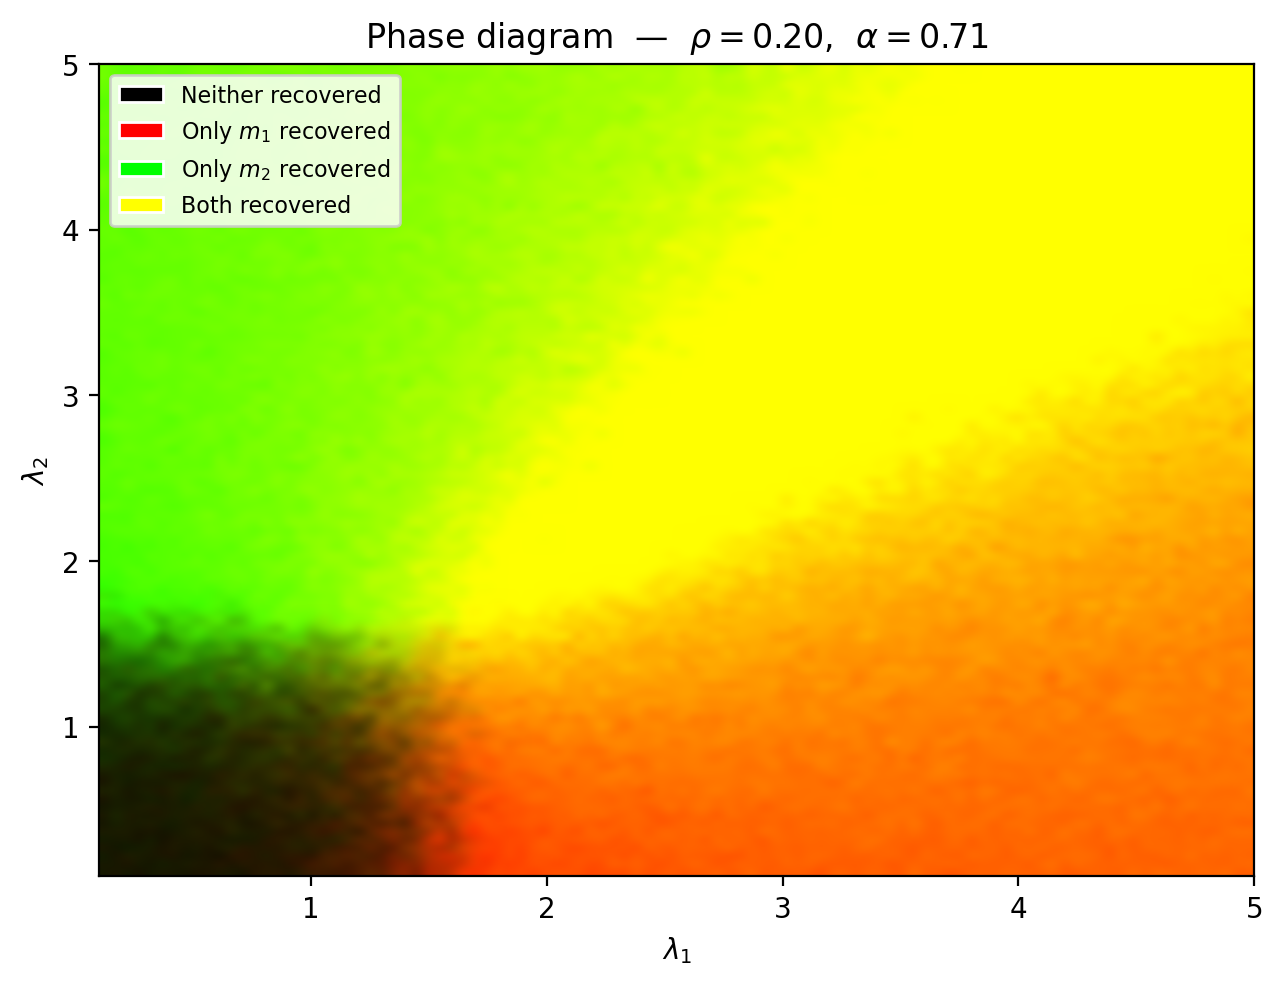
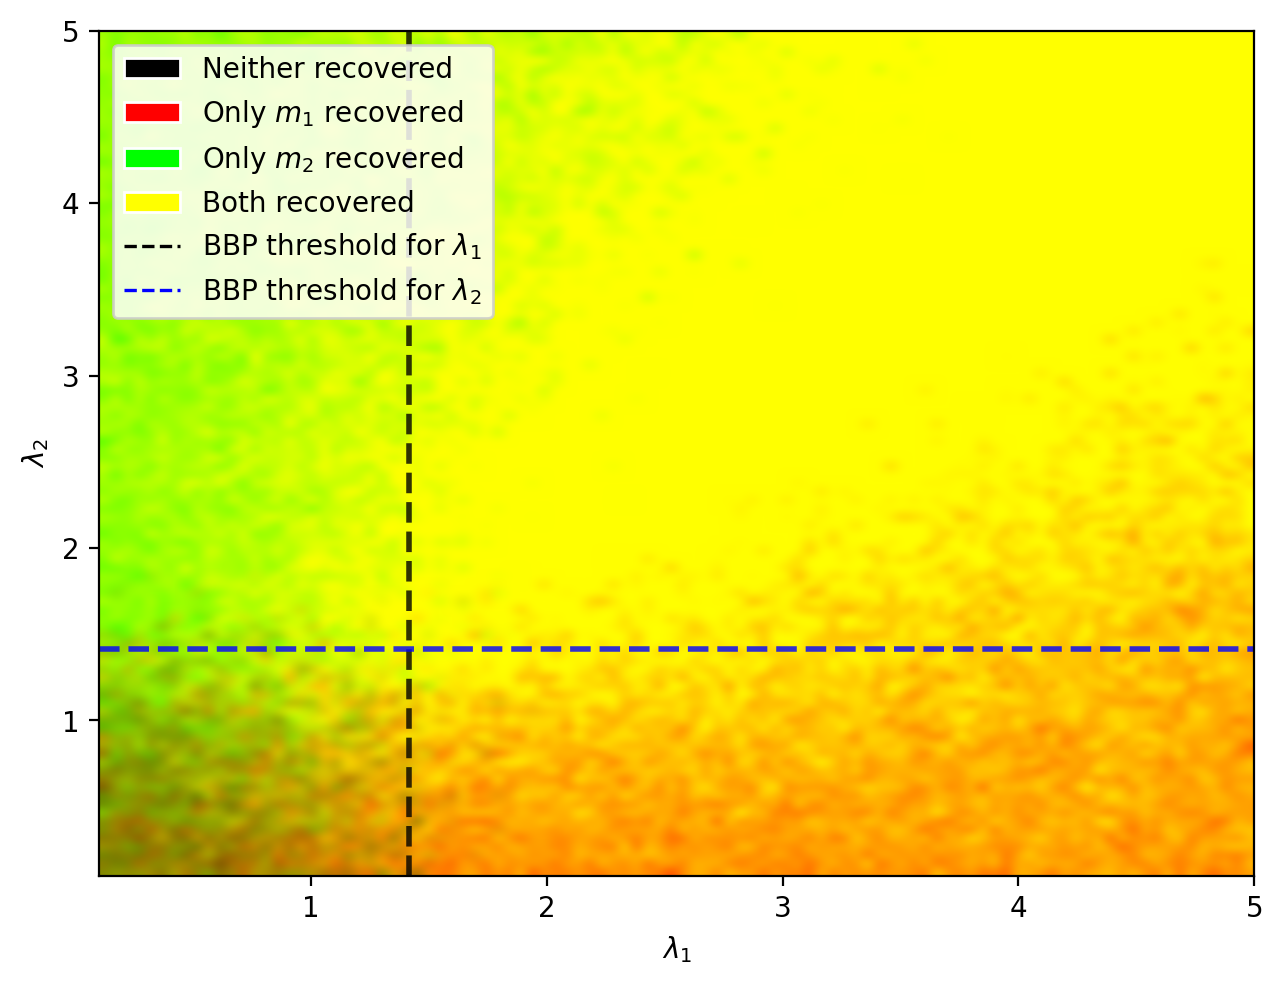
modification phase diagram pour plots

diff --git a/Spike_code/phase_diagram.py b/Spike_code/phase_diagram.py
@@ -8,14 +8,14 @@ import os
 
 importlib.reload(m)
 
-N = 50
+N = 300
 lambas1 = np.linspace(0.1, 5, 100)
 lambas2 = np.linspace(0.1, 5, 100)
 N_gradient_descent = 100
 N_average = 20
 
 alphas = [np.sqrt(0.5)]
-rhos = [0.0]
+rhos = [0.0, 0.1, 0.2, 0.3, 0.5, 1.0]
 
 # Maximum meaningful per-spike overlap (used to normalize the two
 # channels to [0, 1] before packing them into an RGB image).
@@ -56,13 +56,14 @@ for rho in rhos:
         lam1_bbp = 1.0 / alpha
         lam2_bbp = 1.0 / np.sqrt(1.0 - alpha**2)
 
-        ax.axvline(lam1_bbp, color="white", ls="--", lw=2, alpha=0.8,
-                label=rf"$\lambda_1 = 1/\alpha \approx {lam1_bbp:.2f}$")
+        ax.axvline(lam1_bbp, color="black", ls="--", lw=2, alpha=0.8,
+                label=rf"BBP threshold for $\lambda_1$")
         ax.axhline(lam2_bbp, color="blue", ls="--",  lw=2, alpha=0.8,
-                label=rf"$\lambda_2 = 1/\sqrt{{1-\alpha^2}} \approx {lam2_bbp:.2f}$")
+                label=rf"BBP threshold for $\lambda_2$")
 
-        ax.set(xlabel=r"$\lambda_1$", ylabel=r"$\lambda_2$")
-        ax.set_title(rf"Phase diagram  —  $\rho={rho:.2f}$,  $\alpha={alpha:.2f}$")
+        ax.set_xlabel(r"$\lambda_1$", fontsize=24)
+        ax.set_ylabel(r"$\lambda_2$", fontsize=24)
+        ax.tick_params(axis='both', which='major', labelsize=20)
 
         legend_patches = [
             mpatches.Patch(facecolor=(0, 0, 0), edgecolor="white",
@@ -73,16 +74,16 @@ for rho in rhos:
                            label=r"Only $m_2$ recovered"),
             mpatches.Patch(facecolor=(1, 1, 0), edgecolor="white",
                            label="Both recovered"),
-            Line2D([0], [0], color="white", ls="--", lw=1.2,
-                label=rf"BBP $\lambda_1 = 1/\alpha \approx {lam1_bbp:.2f}$"),
+            Line2D([0], [0], color="black", ls="--", lw=1.2,
+                label=rf"BBP threshold for $\lambda_1$"),
             Line2D([0], [0], color="blue", ls="--",  lw=1.2,
-           label=rf"BBP $\lambda_2 = 1/\sqrt{{1-\alpha^2}} \approx {lam2_bbp:.2f}$"),
+           label=rf"BBP threshold for $\lambda_2$"),
         ]
         ax.legend(
             handles=legend_patches,
             loc="upper left",
             framealpha=0.85,
-            fontsize=8,
+            fontsize=20,
         )
 
         fig.tight_layout()

diff --git a/Spike_code/plot_corrolated_spikes.py b/Spike_code/plot_corrolated_spikes.py
@@ -25,13 +25,13 @@ for rho in rhos:
     y1err.append(np.std(a))
     y2err.append(np.std(b))
 
-plt.errorbar(rhos, y1all, yerr=y1err, label=r'$\lambda_1$', capsize=2)
-plt.errorbar(rhos, y2all, yerr=y2err, label=r'$\lambda_2$', capsize=2)
+plt.errorbar(rhos, y1all, yerr=y1err, label='Top Eigenvalue', capsize=2)
+plt.errorbar(rhos, y2all, yerr=y2err, label='Second Eigenvalue', capsize=2)
 plt.xlabel(r'$\rho$')
 plt.xlim(0, 1)
 plt.axhline(2, color='red', linestyle='--', label=r'BBP threshold')
 plt.ylabel('Top two eigenvalues')
-plt.title(rf'Top two eigenvalues of Two Spiked Wigner Matrix with $\alpha$ = {np.sqrt(0.5):.2f}')
+#plt.title(rf'Top two eigenvalues of Two Spiked Wigner Matrix with $\alpha$ = {np.sqrt(0.5):.2f}')
 plt.legend()
 plt.grid()
 plt.savefig(f'./Plots/Spike/Two_Spiked_Wigner_Top_Eigenvalues_alpha_{np.sqrt(0.5):.2f}.png', dpi=150)

diff --git a/Spike_code/plot_corrolated_spikes_2.py b/Spike_code/plot_corrolated_spikes_2.py
@@ -26,13 +26,13 @@ for alpha in alphas:
     y1err.append(np.std(a))
     y2err.append(np.std(b))
 
-plt.errorbar(alphas, y1all, yerr=y1err, label=r'$\lambda_1$', capsize=2)
-plt.errorbar(alphas, y2all, yerr=y2err, label=r'$\lambda_2$', capsize=2)
+plt.errorbar(alphas, y1all, yerr=y1err, label='Top Eigenvalue', capsize=2)
+plt.errorbar(alphas, y2all, yerr=y2err, label='Second Eigenvalue', capsize=2)
 plt.xlabel(r'$\alpha$')
 plt.xlim(0, 1)
 plt.axhline(2, color='red', linestyle='--', label=r'BBP threshold')
 plt.ylabel('Top two eigenvalues')
-plt.title(rf'Top two eigenvalues of Two Spiked Wigner Matrix with $\rho$ = 0.2')
+#plt.title(rf'Top two eigenvalues of Two Spiked Wigner Matrix with $\rho$ = 0.2')
 plt.legend()
 plt.grid()
 plt.savefig(f'./Plots/Spike/Two_Spiked_Wigner_Top_Eigenvalues_rho_0.2.png', dpi=150)
